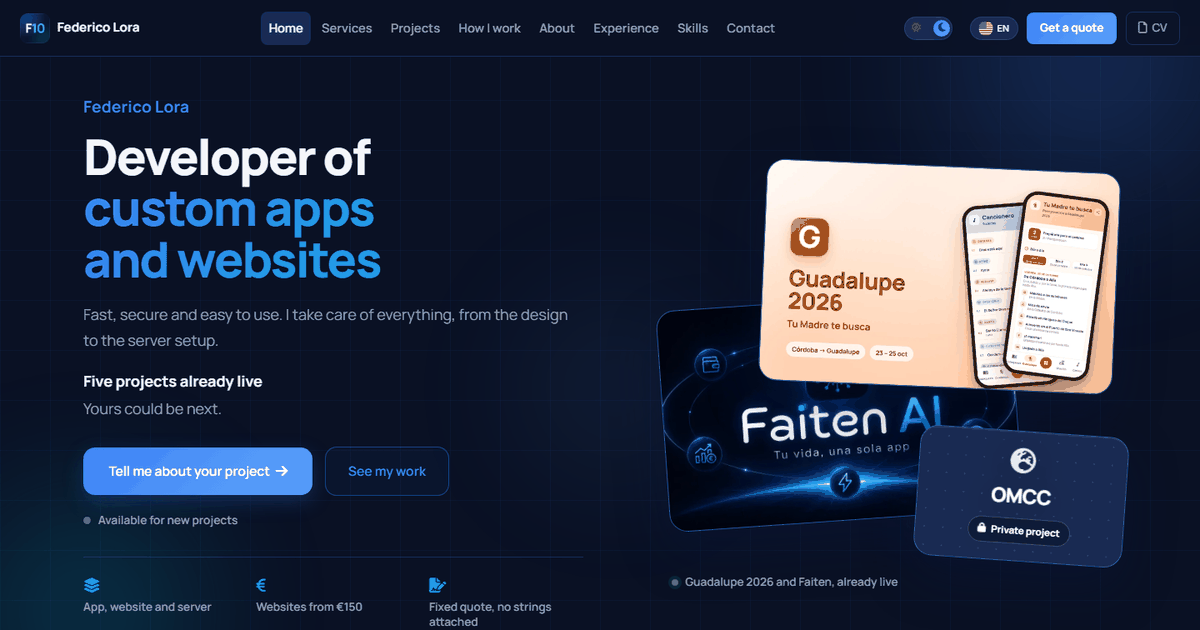
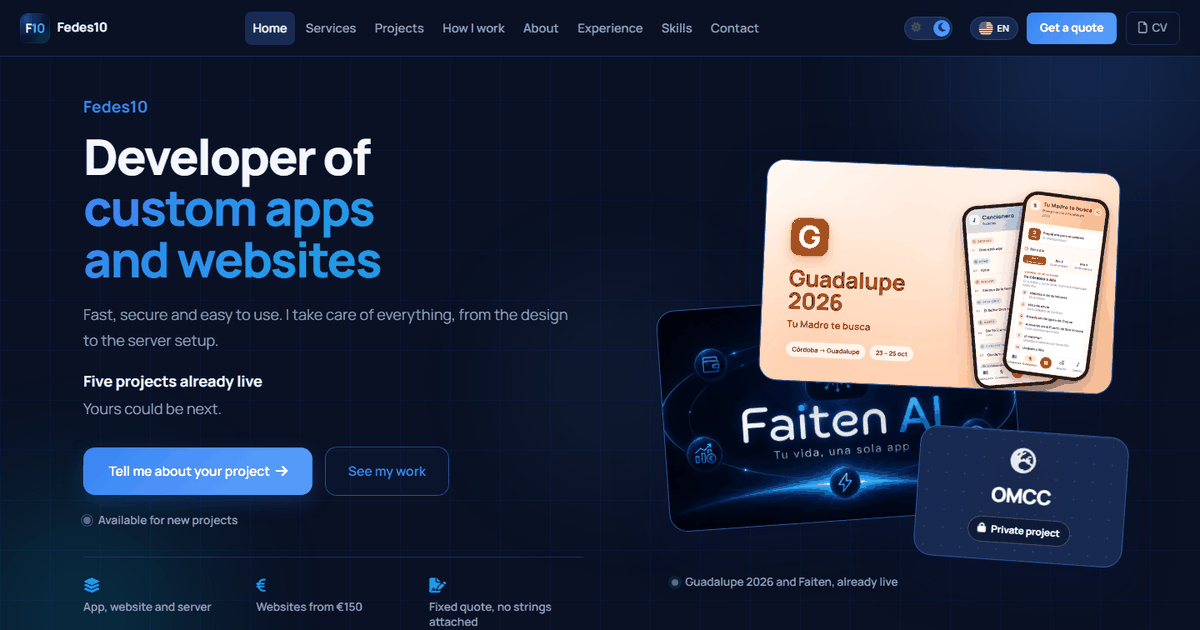
fix(web): «Fedes10» también en la portada y en la pestaña
Fede quería su nombre solo en el primer párrafo del Sobre mí, no en la portada
ni en la pestaña (se le entendió al revés en v2.9.3). Ahora:

- Portada (el h1) y título: «Fedes10 · Desarrollador de apps y webs» y
  «Fedes10 · Cross-platform app developer»; también en las vistas previas.
- La imagen de las vistas previas (1200 × 630), rehecha con la portada nueva.
- Descripción: «… de Fedes10 (Federico Lora)», el mote delante.
- El alt de la foto, con el mote.

El nombre sigue en el Sobre mí y en los datos para buscadores de la persona.

diff --git a/index.html b/index.html
@@ -27,8 +27,8 @@ SEGURIDAD:
 <head>
   <meta charset="UTF-8" />
   <meta name="viewport" content="width=device-width, initial-scale=1.0" />
-  <title data-i18n="meta-title">Federico Lora (Fedes10) · Desarrollador de apps y webs</title>
-  <meta name="description" data-i18n-attr="content:meta-description" content="Currículum y portafolio de Federico Lora (Fedes10), desarrollador full stack y de apps multiplataforma con Flutter en Córdoba. Pide presupuesto." />
+  <title data-i18n="meta-title">Fedes10 · Desarrollador de apps y webs</title>
+  <meta name="description" data-i18n-attr="content:meta-description" content="Currículum y portafolio de Fedes10 (Federico Lora), desarrollador full stack y de apps multiplataforma con Flutter en Córdoba. Pide presupuesto." />
   <meta name="author" content="Federico Lora" />
   <meta name="robots" content="index, follow, max-image-preview:large, max-snippet:-1" />
   <meta name="theme-color" content="#0d1630" />
@@ -51,18 +51,18 @@ SEGURIDAD:
   <meta property="profile:username" content="Fedes10" />
   <meta property="og:site_name" content="Fedes10" />
   <meta property="og:url" data-i18n-attr="content:url-canonica" content="https://fedes10.com/" />
-  <meta property="og:title" data-i18n-attr="content:og-titulo" content="Federico Lora (Fedes10) · Desarrollador de apps multiplataforma" />
+  <meta property="og:title" data-i18n-attr="content:og-titulo" content="Fedes10 · Desarrollador de apps multiplataforma" />
   <meta property="og:description" data-i18n-attr="content:og-descripcion" content="Desarrollador full stack y de apps multiplataforma con Flutter en Córdoba. Apps, webs y servidores seguros." />
-  <meta property="og:image" data-i18n-attr="content:og-imagen" content="https://fedes10.com/Imagenes/preview-web-url.png?v=20261022" />
+  <meta property="og:image" data-i18n-attr="content:og-imagen" content="https://fedes10.com/Imagenes/preview-web-url.png?v=20261027" />
   <meta property="og:image:width" content="1200" />
   <meta property="og:image:height" content="630" />
-  <meta property="og:image:alt" data-i18n-attr="content:og-imagen-alt" content="Federico Lora · Desarrollador full stack y de apps multiplataforma" />
+  <meta property="og:image:alt" data-i18n-attr="content:og-imagen-alt" content="Fedes10 · Desarrollador full stack y de apps multiplataforma" />
   <meta property="og:locale" data-i18n-attr="content:og-locale" content="es_ES" />
   <meta property="og:locale:alternate" data-i18n-attr="content:og-locale-alt" content="en_GB" />
   <meta name="twitter:card" content="summary_large_image" />
-  <meta name="twitter:title" data-i18n-attr="content:og-titulo" content="Federico Lora (Fedes10) · Desarrollador de apps multiplataforma" />
+  <meta name="twitter:title" data-i18n-attr="content:og-titulo" content="Fedes10 · Desarrollador de apps multiplataforma" />
   <meta name="twitter:description" data-i18n-attr="content:og-descripcion" content="Desarrollador full stack y de apps multiplataforma con Flutter en Córdoba. Apps, webs y servidores seguros." />
-  <meta name="twitter:image" data-i18n-attr="content:og-imagen" content="https://fedes10.com/Imagenes/preview-web-url.png?v=20261022" />
+  <meta name="twitter:image" data-i18n-attr="content:og-imagen" content="https://fedes10.com/Imagenes/preview-web-url.png?v=20261027" />
 
   <!-- Datos estructurados (perfil, persona, web, servicios y preguntas frecuentes): los escribe
        GenerarIdiomas.py desde idiomas.json. Son datos: no se ejecutan, y la CSP no los frena -->
@@ -74,8 +74,8 @@ SEGURIDAD:
         "@type": "ProfilePage",
         "@id": "https://fedes10.com/#perfil",
         "url": "https://fedes10.com/",
-        "name": "Federico Lora (Fedes10) · Desarrollador de apps y webs",
-        "description": "Currículum y portafolio de Federico Lora (Fedes10), desarrollador full stack y de apps multiplataforma con Flutter en Córdoba. Pide presupuesto.",
+        "name": "Fedes10 · Desarrollador de apps y webs",
+        "description": "Currículum y portafolio de Fedes10 (Federico Lora), desarrollador full stack y de apps multiplataforma con Flutter en Córdoba. Pide presupuesto.",
         "inLanguage": "es",
         "isPartOf": {
           "@id": "https://fedes10.com/#web"
@@ -86,7 +86,7 @@ SEGURIDAD:
         "about": {
           "@id": "https://fedes10.com/#fede"
         },
-        "dateModified": "2026-10-26T00:00:00+00:00"
+        "dateModified": "2026-10-27T00:00:00+00:00"
       },
       {
         "@type": "Person",
@@ -432,7 +432,7 @@ SEGURIDAD:
     <div class="hero-grid">
       <div class="hero-texto">
         <h1 class="hero-titulo reveal-up delay-1">
-          <span class="hero-nombre">Federico Lora</span>
+          <span class="hero-nombre">Fedes10</span>
           <span class="hero-promesa" data-i18n-html="hero-promesa">Desarrollador de <em>apps y webs a medida</em></span>
         </h1>
         <p class="hero-lead reveal-up delay-2" data-i18n-html="hero-lead">Rápidas, seguras y fáciles de usar. Me encargo de todo, desde el diseño hasta la configuración del servidor.</p>
@@ -883,7 +883,7 @@ SEGURIDAD:
       <div class="about-grid">
         <div class="about-photo reveal-left">
           <div class="photo-frame">
-            <img src="Imagenes/FotoFedeCV.webp" alt="Federico Lora, desarrollador full stack y de apps multiplataforma" class="profile-photo" width="832" height="1264"
+            <img src="Imagenes/FotoFedeCV.webp" alt="Fedes10, desarrollador full stack y de apps multiplataforma" class="profile-photo" width="832" height="1264"
               data-respaldo="photoFallback" data-i18n-attr="alt:foto-alt" />
             <div class="photo-placeholder" id="photoFallback" hidden>
               <i class="fas fa-user-circle" aria-hidden="true"></i>

diff --git a/en/index.html b/en/index.html
@@ -27,8 +27,8 @@ SEGURIDAD:
 <head>
   <meta charset="UTF-8" />
   <meta name="viewport" content="width=device-width, initial-scale=1.0" />
-  <title data-i18n="meta-title">Federico Lora (Fedes10) · Cross-platform app developer</title>
-  <meta name="description" data-i18n-attr="content:meta-description" content="Résumé and portfolio of Federico Lora (Fedes10), full-stack and cross-platform app developer (Flutter) in Córdoba, Spain. Get a quote." />
+  <title data-i18n="meta-title">Fedes10 · Cross-platform app developer</title>
+  <meta name="description" data-i18n-attr="content:meta-description" content="Résumé and portfolio of Fedes10 (Federico Lora), full-stack and cross-platform app developer (Flutter) in Córdoba, Spain. Get a quote." />
   <meta name="author" content="Federico Lora" />
   <meta name="robots" content="index, follow, max-image-preview:large, max-snippet:-1" />
   <meta name="theme-color" content="#0d1630" />
@@ -51,18 +51,18 @@ SEGURIDAD:
   <meta property="profile:username" content="Fedes10" />
   <meta property="og:site_name" content="Fedes10" />
   <meta property="og:url" data-i18n-attr="content:url-canonica" content="https://fedes10.com/en/" />
-  <meta property="og:title" data-i18n-attr="content:og-titulo" content="Federico Lora (Fedes10) · Cross-platform app developer" />
+  <meta property="og:title" data-i18n-attr="content:og-titulo" content="Fedes10 · Cross-platform app developer" />
   <meta property="og:description" data-i18n-attr="content:og-descripcion" content="Full-stack and cross-platform app developer (Flutter) in Córdoba, Spain. Apps, websites and secure servers." />
-  <meta property="og:image" data-i18n-attr="content:og-imagen" content="https://fedes10.com/Imagenes/preview-web-url-en.png?v=20261022" />
+  <meta property="og:image" data-i18n-attr="content:og-imagen" content="https://fedes10.com/Imagenes/preview-web-url-en.png?v=20261027" />
   <meta property="og:image:width" content="1200" />
   <meta property="og:image:height" content="630" />
-  <meta property="og:image:alt" data-i18n-attr="content:og-imagen-alt" content="Federico Lora · Full-stack and cross-platform app developer" />
+  <meta property="og:image:alt" data-i18n-attr="content:og-imagen-alt" content="Fedes10 · Full-stack and cross-platform app developer" />
   <meta property="og:locale" data-i18n-attr="content:og-locale" content="en_GB" />
   <meta property="og:locale:alternate" data-i18n-attr="content:og-locale-alt" content="es_ES" />
   <meta name="twitter:card" content="summary_large_image" />
-  <meta name="twitter:title" data-i18n-attr="content:og-titulo" content="Federico Lora (Fedes10) · Cross-platform app developer" />
+  <meta name="twitter:title" data-i18n-attr="content:og-titulo" content="Fedes10 · Cross-platform app developer" />
   <meta name="twitter:description" data-i18n-attr="content:og-descripcion" content="Full-stack and cross-platform app developer (Flutter) in Córdoba, Spain. Apps, websites and secure servers." />
-  <meta name="twitter:image" data-i18n-attr="content:og-imagen" content="https://fedes10.com/Imagenes/preview-web-url-en.png?v=20261022" />
+  <meta name="twitter:image" data-i18n-attr="content:og-imagen" content="https://fedes10.com/Imagenes/preview-web-url-en.png?v=20261027" />
 
   <!-- Datos estructurados (perfil, persona, web, servicios y preguntas frecuentes): los escribe
        GenerarIdiomas.py desde idiomas.json. Son datos: no se ejecutan, y la CSP no los frena -->
@@ -74,8 +74,8 @@ SEGURIDAD:
         "@type": "ProfilePage",
         "@id": "https://fedes10.com/en/#perfil",
         "url": "https://fedes10.com/en/",
-        "name": "Federico Lora (Fedes10) · Cross-platform app developer",
-        "description": "Résumé and portfolio of Federico Lora (Fedes10), full-stack and cross-platform app developer (Flutter) in Córdoba, Spain. Get a quote.",
+        "name": "Fedes10 · Cross-platform app developer",
+        "description": "Résumé and portfolio of Fedes10 (Federico Lora), full-stack and cross-platform app developer (Flutter) in Córdoba, Spain. Get a quote.",
         "inLanguage": "en",
         "isPartOf": {
           "@id": "https://fedes10.com/#web"
@@ -86,7 +86,7 @@ SEGURIDAD:
         "about": {
           "@id": "https://fedes10.com/#fede"
         },
-        "dateModified": "2026-10-26T00:00:00+00:00"
+        "dateModified": "2026-10-27T00:00:00+00:00"
       },
       {
         "@type": "Person",
@@ -432,7 +432,7 @@ SEGURIDAD:
     <div class="hero-grid">
       <div class="hero-texto">
         <h1 class="hero-titulo reveal-up delay-1">
-          <span class="hero-nombre">Federico Lora</span>
+          <span class="hero-nombre">Fedes10</span>
           <span class="hero-promesa" data-i18n-html="hero-promesa">Developer of <em>custom apps and websites</em></span>
         </h1>
         <p class="hero-lead reveal-up delay-2" data-i18n-html="hero-lead">Fast, secure and easy to use. I take care of everything, from the design to the server setup.</p>
@@ -883,7 +883,7 @@ SEGURIDAD:
       <div class="about-grid">
         <div class="about-photo reveal-left">
           <div class="photo-frame">
-            <img src="../Imagenes/FotoFedeCV.webp" alt="Federico Lora, full-stack and cross-platform app developer" class="profile-photo" width="832" height="1264"
+            <img src="../Imagenes/FotoFedeCV.webp" alt="Fedes10, full-stack and cross-platform app developer" class="profile-photo" width="832" height="1264"
               data-respaldo="photoFallback" data-i18n-attr="alt:foto-alt" />
             <div class="photo-placeholder" id="photoFallback" hidden>
               <i class="fas fa-user-circle" aria-hidden="true"></i>
